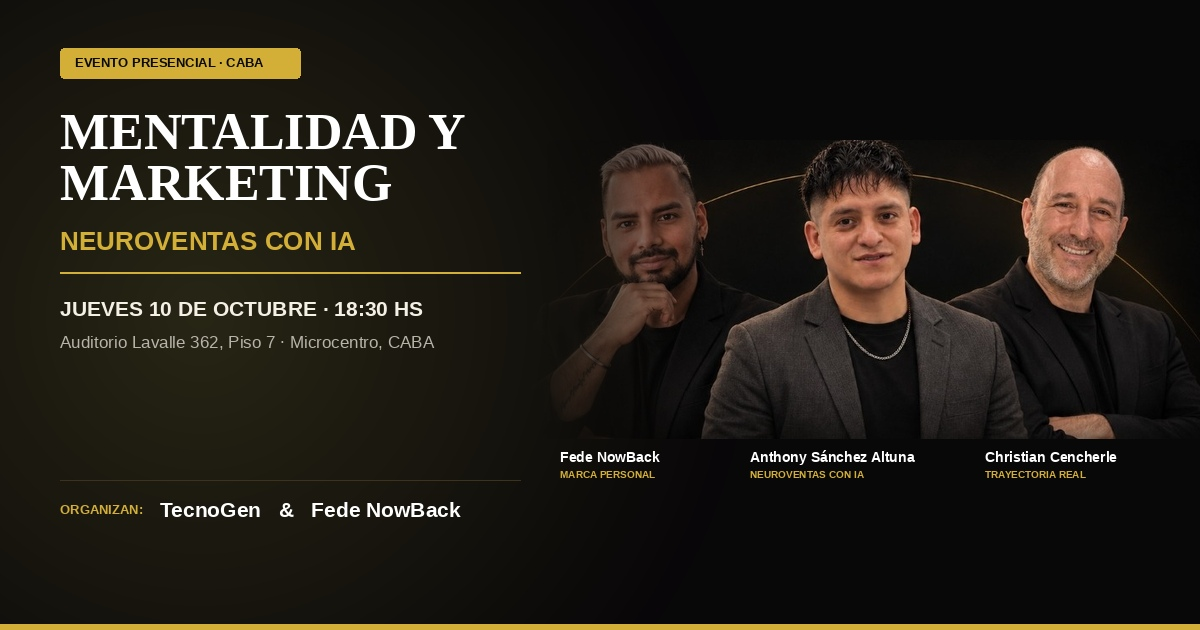
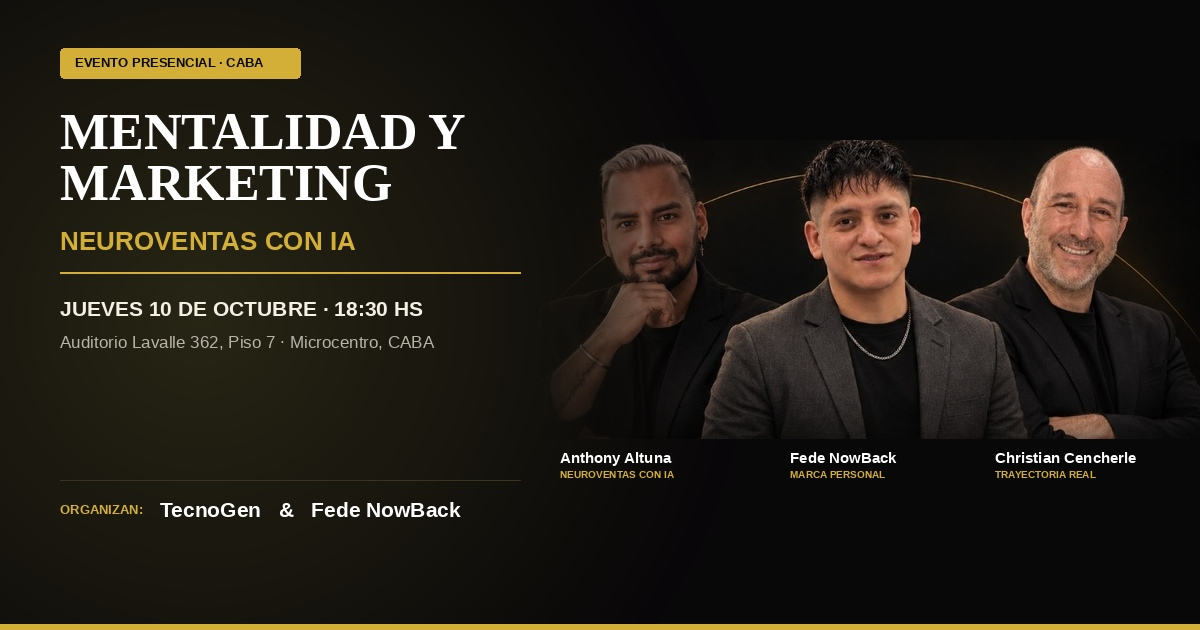
fix(speakers): correct order to Anthony Altuna (left), Fede NowBack (center), Christian Cencherle (right)

Changed region(s): [[0.6167, 0.6937, 0.7708, 0.7841], [0.8017, 0.6937, 0.9558, 0.7841], [0.4625, 0.6937, 0.555, 0.7841]]

diff --git a/public/Mentalidad-Marketing-Neuroventas-con-IA.html b/public/Mentalidad-Marketing-Neuroventas-con-IA.html
@@ -4,8 +4,8 @@
   <meta charset="UTF-8">
   <meta name="viewport" content="width=device-width, initial-scale=1.0">
   <title>Mentalidad y Marketing — Neuroventas con IA | Evento Presencial 10 de Octubre</title>
-  <meta name="description" content="Una jornada presencial para transformar la forma en que pensás, comunicás y vendés tu negocio con Anthony Sánchez Altuna, Fede NowBack y Christian Cencherle. 10 de octubre, Lavalle 362, Piso 7, Microcentro, CABA.">
-  <meta name="keywords" content="Mentalidad y Marketing, Neuroventas con IA, Fede NowBack, Anthony Sánchez Altuna, Christian Cencherle, evento presencial CABA, marketing con IA, neuroventas, marca personal">
+  <meta name="description" content="Una jornada presencial para transformar la forma en que pensás, comunicás y vendés tu negocio con Anthony Altuna, Fede NowBack y Christian Cencherle. 10 de octubre, Lavalle 362, Piso 7, Microcentro, CABA.">
+  <meta name="keywords" content="Mentalidad y Marketing, Neuroventas con IA, Fede NowBack, Anthony Altuna, Christian Cencherle, evento presencial CABA, marketing con IA, neuroventas, marca personal">
   <link rel="canonical" href="https://tecnogen.ar/Mentalidad-Marketing-Neuroventas-con-IA">
   
   <!-- Open Graph -->
@@ -1157,16 +1157,16 @@
         <!-- Hero Right Column: Speakers Image + Signatures directly underneath -->
         <div class="hero-speakers-col">
           <div class="hero-bg-speakers">
-            <img src="/events_new/hero-real-speakers-clean.jpg" alt="Fede NowBack, Anthony Sánchez Altuna, Christian Cencherle">
+            <img src="/events_new/hero-real-speakers-clean.jpg" alt="Anthony Altuna, Fede NowBack, Christian Cencherle">
           </div>
           <div class="hero-signatures">
             <div class="hero-sig-item">
-              <div class="hero-sig-name">Fede NowBack</div>
-              <div class="hero-sig-role">MARCA PERSONAL<br>Y MENTALIDAD</div>
+              <div class="hero-sig-name">Anthony Altuna</div>
+              <div class="hero-sig-role">NEUROVENTAS<br>CON IA</div>
             </div>
             <div class="hero-sig-item">
-              <div class="hero-sig-name">Anthony Sánchez Altuna</div>
-              <div class="hero-sig-role">NEUROVENTAS<br>CON IA</div>
+              <div class="hero-sig-name">Fede NowBack</div>
+              <div class="hero-sig-role">MARCA PERSONAL<br>Y MENTALIDAD</div>
             </div>
             <div class="hero-sig-item">
               <div class="hero-sig-name">Christian Cencherle</div>
@@ -1228,13 +1228,13 @@
       </div>
 
       <div class="spk-grid">
-        <!-- Speaker 1: Anthony -->
+        <!-- Speaker 1: Anthony Altuna -->
         <div class="spk-card">
           <div class="spk-img-wrap">
-            <img src="/events_new/speaker-anthony-clean.jpg" alt="Anthony Sánchez Altuna" class="spk-img">
+            <img src="/events_new/speaker-anthony-clean.jpg" alt="Anthony Altuna" class="spk-img">
           </div>
           <div class="spk-body">
-            <h3 class="spk-name sf gold-gradient">Anthony Sánchez Altuna</h3>
+            <h3 class="spk-name sf gold-gradient">Anthony Altuna</h3>
             <p class="spk-tagline">Economista · Empresario · Especialista en Marketing Digital</p>
             <ul class="spk-bullets">
               <li>Dueño de una clínica dental y de una agencia de marketing.</li>
@@ -1381,7 +1381,7 @@
             <div class="agd-dot"></div>
             <span class="agd-time">10:00</span>
             <h3 class="agd-item-title">Apertura: Neuroventas y marketing con IA</h3>
-            <div class="agd-item-speaker">Anthony Sánchez Altuna</div>
+            <div class="agd-item-speaker">Anthony Altuna</div>
             <p class="agd-item-desc">Fundamentos de neurociencia aplicados al proceso de compra y cómo integrar herramientas de IA en tu estrategia comercial.</p>
           </div>
 

diff --git a/public/Mentalidad-Marketing-Neuroventas-con-IA/index.html b/public/Mentalidad-Marketing-Neuroventas-con-IA/index.html
@@ -4,8 +4,8 @@
   <meta charset="UTF-8">
   <meta name="viewport" content="width=device-width, initial-scale=1.0">
   <title>Mentalidad y Marketing — Neuroventas con IA | Evento Presencial 10 de Octubre</title>
-  <meta name="description" content="Una jornada presencial para transformar la forma en que pensás, comunicás y vendés tu negocio con Anthony Sánchez Altuna, Fede NowBack y Christian Cencherle. 10 de octubre, Lavalle 362, Piso 7, Microcentro, CABA.">
-  <meta name="keywords" content="Mentalidad y Marketing, Neuroventas con IA, Fede NowBack, Anthony Sánchez Altuna, Christian Cencherle, evento presencial CABA, marketing con IA, neuroventas, marca personal">
+  <meta name="description" content="Una jornada presencial para transformar la forma en que pensás, comunicás y vendés tu negocio con Anthony Altuna, Fede NowBack y Christian Cencherle. 10 de octubre, Lavalle 362, Piso 7, Microcentro, CABA.">
+  <meta name="keywords" content="Mentalidad y Marketing, Neuroventas con IA, Fede NowBack, Anthony Altuna, Christian Cencherle, evento presencial CABA, marketing con IA, neuroventas, marca personal">
   <link rel="canonical" href="https://tecnogen.ar/Mentalidad-Marketing-Neuroventas-con-IA">
   
   <!-- Open Graph -->
@@ -1157,16 +1157,16 @@
         <!-- Hero Right Column: Speakers Image + Signatures directly underneath -->
         <div class="hero-speakers-col">
           <div class="hero-bg-speakers">
-            <img src="/events_new/hero-real-speakers-clean.jpg" alt="Fede NowBack, Anthony Sánchez Altuna, Christian Cencherle">
+            <img src="/events_new/hero-real-speakers-clean.jpg" alt="Anthony Altuna, Fede NowBack, Christian Cencherle">
           </div>
           <div class="hero-signatures">
             <div class="hero-sig-item">
-              <div class="hero-sig-name">Fede NowBack</div>
-              <div class="hero-sig-role">MARCA PERSONAL<br>Y MENTALIDAD</div>
+              <div class="hero-sig-name">Anthony Altuna</div>
+              <div class="hero-sig-role">NEUROVENTAS<br>CON IA</div>
             </div>
             <div class="hero-sig-item">
-              <div class="hero-sig-name">Anthony Sánchez Altuna</div>
-              <div class="hero-sig-role">NEUROVENTAS<br>CON IA</div>
+              <div class="hero-sig-name">Fede NowBack</div>
+              <div class="hero-sig-role">MARCA PERSONAL<br>Y MENTALIDAD</div>
             </div>
             <div class="hero-sig-item">
               <div class="hero-sig-name">Christian Cencherle</div>
@@ -1228,13 +1228,13 @@
       </div>
 
       <div class="spk-grid">
-        <!-- Speaker 1: Anthony -->
+        <!-- Speaker 1: Anthony Altuna -->
         <div class="spk-card">
           <div class="spk-img-wrap">
-            <img src="/events_new/speaker-anthony-clean.jpg" alt="Anthony Sánchez Altuna" class="spk-img">
+            <img src="/events_new/speaker-anthony-clean.jpg" alt="Anthony Altuna" class="spk-img">
           </div>
           <div class="spk-body">
-            <h3 class="spk-name sf gold-gradient">Anthony Sánchez Altuna</h3>
+            <h3 class="spk-name sf gold-gradient">Anthony Altuna</h3>
             <p class="spk-tagline">Economista · Empresario · Especialista en Marketing Digital</p>
             <ul class="spk-bullets">
               <li>Dueño de una clínica dental y de una agencia de marketing.</li>
@@ -1381,7 +1381,7 @@
             <div class="agd-dot"></div>
             <span class="agd-time">10:00</span>
             <h3 class="agd-item-title">Apertura: Neuroventas y marketing con IA</h3>
-            <div class="agd-item-speaker">Anthony Sánchez Altuna</div>
+            <div class="agd-item-speaker">Anthony Altuna</div>
             <p class="agd-item-desc">Fundamentos de neurociencia aplicados al proceso de compra y cómo integrar herramientas de IA en tu estrategia comercial.</p>
           </div>
 

diff --git a/public/evento.html b/public/evento.html
@@ -4,8 +4,8 @@
   <meta charset="UTF-8">
   <meta name="viewport" content="width=device-width, initial-scale=1.0">
   <title>Mentalidad y Marketing — Neuroventas con IA | Evento Presencial 10 de Octubre</title>
-  <meta name="description" content="Una jornada presencial para transformar la forma en que pensás, comunicás y vendés tu negocio con Anthony Sánchez Altuna, Fede NowBack y Christian Cencherle. 10 de octubre, Lavalle 362, Piso 7, Microcentro, CABA.">
-  <meta name="keywords" content="Mentalidad y Marketing, Neuroventas con IA, Fede NowBack, Anthony Sánchez Altuna, Christian Cencherle, evento presencial CABA, marketing con IA, neuroventas, marca personal">
+  <meta name="description" content="Una jornada presencial para transformar la forma en que pensás, comunicás y vendés tu negocio con Anthony Altuna, Fede NowBack y Christian Cencherle. 10 de octubre, Lavalle 362, Piso 7, Microcentro, CABA.">
+  <meta name="keywords" content="Mentalidad y Marketing, Neuroventas con IA, Fede NowBack, Anthony Altuna, Christian Cencherle, evento presencial CABA, marketing con IA, neuroventas, marca personal">
   <link rel="canonical" href="https://tecnogen.ar/Mentalidad-Marketing-Neuroventas-con-IA">
   
   <!-- Open Graph -->
@@ -1157,16 +1157,16 @@
         <!-- Hero Right Column: Speakers Image + Signatures directly underneath -->
         <div class="hero-speakers-col">
           <div class="hero-bg-speakers">
-            <img src="/events_new/hero-real-speakers-clean.jpg" alt="Fede NowBack, Anthony Sánchez Altuna, Christian Cencherle">
+            <img src="/events_new/hero-real-speakers-clean.jpg" alt="Anthony Altuna, Fede NowBack, Christian Cencherle">
           </div>
           <div class="hero-signatures">
             <div class="hero-sig-item">
-              <div class="hero-sig-name">Fede NowBack</div>
-              <div class="hero-sig-role">MARCA PERSONAL<br>Y MENTALIDAD</div>
+              <div class="hero-sig-name">Anthony Altuna</div>
+              <div class="hero-sig-role">NEUROVENTAS<br>CON IA</div>
             </div>
             <div class="hero-sig-item">
-              <div class="hero-sig-name">Anthony Sánchez Altuna</div>
-              <div class="hero-sig-role">NEUROVENTAS<br>CON IA</div>
+              <div class="hero-sig-name">Fede NowBack</div>
+              <div class="hero-sig-role">MARCA PERSONAL<br>Y MENTALIDAD</div>
             </div>
             <div class="hero-sig-item">
               <div class="hero-sig-name">Christian Cencherle</div>
@@ -1228,13 +1228,13 @@
       </div>
 
       <div class="spk-grid">
-        <!-- Speaker 1: Anthony -->
+        <!-- Speaker 1: Anthony Altuna -->
         <div class="spk-card">
           <div class="spk-img-wrap">
-            <img src="/events_new/speaker-anthony-clean.jpg" alt="Anthony Sánchez Altuna" class="spk-img">
+            <img src="/events_new/speaker-anthony-clean.jpg" alt="Anthony Altuna" class="spk-img">
           </div>
           <div class="spk-body">
-            <h3 class="spk-name sf gold-gradient">Anthony Sánchez Altuna</h3>
+            <h3 class="spk-name sf gold-gradient">Anthony Altuna</h3>
             <p class="spk-tagline">Economista · Empresario · Especialista en Marketing Digital</p>
             <ul class="spk-bullets">
               <li>Dueño de una clínica dental y de una agencia de marketing.</li>
@@ -1381,7 +1381,7 @@
             <div class="agd-dot"></div>
             <span class="agd-time">10:00</span>
             <h3 class="agd-item-title">Apertura: Neuroventas y marketing con IA</h3>
-            <div class="agd-item-speaker">Anthony Sánchez Altuna</div>
+            <div class="agd-item-speaker">Anthony Altuna</div>
             <p class="agd-item-desc">Fundamentos de neurociencia aplicados al proceso de compra y cómo integrar herramientas de IA en tu estrategia comercial.</p>
           </div>
 

diff --git a/public/mentalidad-marketing-neuroventas-con-ia.html b/public/mentalidad-marketing-neuroventas-con-ia.html
@@ -4,8 +4,8 @@
   <meta charset="UTF-8">
   <meta name="viewport" content="width=device-width, initial-scale=1.0">
   <title>Mentalidad y Marketing — Neuroventas con IA | Evento Presencial 10 de Octubre</title>
-  <meta name="description" content="Una jornada presencial para transformar la forma en que pensás, comunicás y vendés tu negocio con Anthony Sánchez Altuna, Fede NowBack y Christian Cencherle. 10 de octubre, Lavalle 362, Piso 7, Microcentro, CABA.">
-  <meta name="keywords" content="Mentalidad y Marketing, Neuroventas con IA, Fede NowBack, Anthony Sánchez Altuna, Christian Cencherle, evento presencial CABA, marketing con IA, neuroventas, marca personal">
+  <meta name="description" content="Una jornada presencial para transformar la forma en que pensás, comunicás y vendés tu negocio con Anthony Altuna, Fede NowBack y Christian Cencherle. 10 de octubre, Lavalle 362, Piso 7, Microcentro, CABA.">
+  <meta name="keywords" content="Mentalidad y Marketing, Neuroventas con IA, Fede NowBack, Anthony Altuna, Christian Cencherle, evento presencial CABA, marketing con IA, neuroventas, marca personal">
   <link rel="canonical" href="https://tecnogen.ar/Mentalidad-Marketing-Neuroventas-con-IA">
   
   <!-- Open Graph -->
@@ -1157,16 +1157,16 @@
         <!-- Hero Right Column: Speakers Image + Signatures directly underneath -->
         <div class="hero-speakers-col">
           <div class="hero-bg-speakers">
-            <img src="/events_new/hero-real-speakers-clean.jpg" alt="Fede NowBack, Anthony Sánchez Altuna, Christian Cencherle">
+            <img src="/events_new/hero-real-speakers-clean.jpg" alt="Anthony Altuna, Fede NowBack, Christian Cencherle">
           </div>
           <div class="hero-signatures">
             <div class="hero-sig-item">
-              <div class="hero-sig-name">Fede NowBack</div>
-              <div class="hero-sig-role">MARCA PERSONAL<br>Y MENTALIDAD</div>
+              <div class="hero-sig-name">Anthony Altuna</div>
+              <div class="hero-sig-role">NEUROVENTAS<br>CON IA</div>
             </div>
             <div class="hero-sig-item">
-              <div class="hero-sig-name">Anthony Sánchez Altuna</div>
-              <div class="hero-sig-role">NEUROVENTAS<br>CON IA</div>
+              <div class="hero-sig-name">Fede NowBack</div>
+              <div class="hero-sig-role">MARCA PERSONAL<br>Y MENTALIDAD</div>
             </div>
             <div class="hero-sig-item">
               <div class="hero-sig-name">Christian Cencherle</div>
@@ -1228,13 +1228,13 @@
       </div>
 
       <div class="spk-grid">
-        <!-- Speaker 1: Anthony -->
+        <!-- Speaker 1: Anthony Altuna -->
         <div class="spk-card">
           <div class="spk-img-wrap">
-            <img src="/events_new/speaker-anthony-clean.jpg" alt="Anthony Sánchez Altuna" class="spk-img">
+            <img src="/events_new/speaker-anthony-clean.jpg" alt="Anthony Altuna" class="spk-img">
           </div>
           <div class="spk-body">
-            <h3 class="spk-name sf gold-gradient">Anthony Sánchez Altuna</h3>
+            <h3 class="spk-name sf gold-gradient">Anthony Altuna</h3>
             <p class="spk-tagline">Economista · Empresario · Especialista en Marketing Digital</p>
             <ul class="spk-bullets">
               <li>Dueño de una clínica dental y de una agencia de marketing.</li>
@@ -1381,7 +1381,7 @@
             <div class="agd-dot"></div>
             <span class="agd-time">10:00</span>
             <h3 class="agd-item-title">Apertura: Neuroventas y marketing con IA</h3>
-            <div class="agd-item-speaker">Anthony Sánchez Altuna</div>
+            <div class="agd-item-speaker">Anthony Altuna</div>
             <p class="agd-item-desc">Fundamentos de neurociencia aplicados al proceso de compra y cómo integrar herramientas de IA en tu estrategia comercial.</p>
           </div>
 

diff --git a/public/mentalidad-marketing-neuroventas-con-ia/index.html b/public/mentalidad-marketing-neuroventas-con-ia/index.html
@@ -4,8 +4,8 @@
   <meta charset="UTF-8">
   <meta name="viewport" content="width=device-width, initial-scale=1.0">
   <title>Mentalidad y Marketing — Neuroventas con IA | Evento Presencial 10 de Octubre</title>
-  <meta name="description" content="Una jornada presencial para transformar la forma en que pensás, comunicás y vendés tu negocio con Anthony Sánchez Altuna, Fede NowBack y Christian Cencherle. 10 de octubre, Lavalle 362, Piso 7, Microcentro, CABA.">
-  <meta name="keywords" content="Mentalidad y Marketing, Neuroventas con IA, Fede NowBack, Anthony Sánchez Altuna, Christian Cencherle, evento presencial CABA, marketing con IA, neuroventas, marca personal">
+  <meta name="description" content="Una jornada presencial para transformar la forma en que pensás, comunicás y vendés tu negocio con Anthony Altuna, Fede NowBack y Christian Cencherle. 10 de octubre, Lavalle 362, Piso 7, Microcentro, CABA.">
+  <meta name="keywords" content="Mentalidad y Marketing, Neuroventas con IA, Fede NowBack, Anthony Altuna, Christian Cencherle, evento presencial CABA, marketing con IA, neuroventas, marca personal">
   <link rel="canonical" href="https://tecnogen.ar/Mentalidad-Marketing-Neuroventas-con-IA">
   
   <!-- Open Graph -->
@@ -1157,16 +1157,16 @@
         <!-- Hero Right Column: Speakers Image + Signatures directly underneath -->
         <div class="hero-speakers-col">
           <div class="hero-bg-speakers">
-            <img src="/events_new/hero-real-speakers-clean.jpg" alt="Fede NowBack, Anthony Sánchez Altuna, Christian Cencherle">
+            <img src="/events_new/hero-real-speakers-clean.jpg" alt="Anthony Altuna, Fede NowBack, Christian Cencherle">
           </div>
           <div class="hero-signatures">
             <div class="hero-sig-item">
-              <div class="hero-sig-name">Fede NowBack</div>
-              <div class="hero-sig-role">MARCA PERSONAL<br>Y MENTALIDAD</div>
+              <div class="hero-sig-name">Anthony Altuna</div>
+              <div class="hero-sig-role">NEUROVENTAS<br>CON IA</div>
             </div>
             <div class="hero-sig-item">
-              <div class="hero-sig-name">Anthony Sánchez Altuna</div>
-              <div class="hero-sig-role">NEUROVENTAS<br>CON IA</div>
+              <div class="hero-sig-name">Fede NowBack</div>
+              <div class="hero-sig-role">MARCA PERSONAL<br>Y MENTALIDAD</div>
             </div>
             <div class="hero-sig-item">
               <div class="hero-sig-name">Christian Cencherle</div>
@@ -1228,13 +1228,13 @@
       </div>
 
       <div class="spk-grid">
-        <!-- Speaker 1: Anthony -->
+        <!-- Speaker 1: Anthony Altuna -->
         <div class="spk-card">
           <div class="spk-img-wrap">
-            <img src="/events_new/speaker-anthony-clean.jpg" alt="Anthony Sánchez Altuna" class="spk-img">
+            <img src="/events_new/speaker-anthony-clean.jpg" alt="Anthony Altuna" class="spk-img">
           </div>
           <div class="spk-body">
-            <h3 class="spk-name sf gold-gradient">Anthony Sánchez Altuna</h3>
+            <h3 class="spk-name sf gold-gradient">Anthony Altuna</h3>
             <p class="spk-tagline">Economista · Empresario · Especialista en Marketing Digital</p>
             <ul class="spk-bullets">
               <li>Dueño de una clínica dental y de una agencia de marketing.</li>
@@ -1381,7 +1381,7 @@
             <div class="agd-dot"></div>
             <span class="agd-time">10:00</span>
             <h3 class="agd-item-title">Apertura: Neuroventas y marketing con IA</h3>
-            <div class="agd-item-speaker">Anthony Sánchez Altuna</div>
+            <div class="agd-item-speaker">Anthony Altuna</div>
             <p class="agd-item-desc">Fundamentos de neurociencia aplicados al proceso de compra y cómo integrar herramientas de IA en tu estrategia comercial.</p>
           </div>
 
